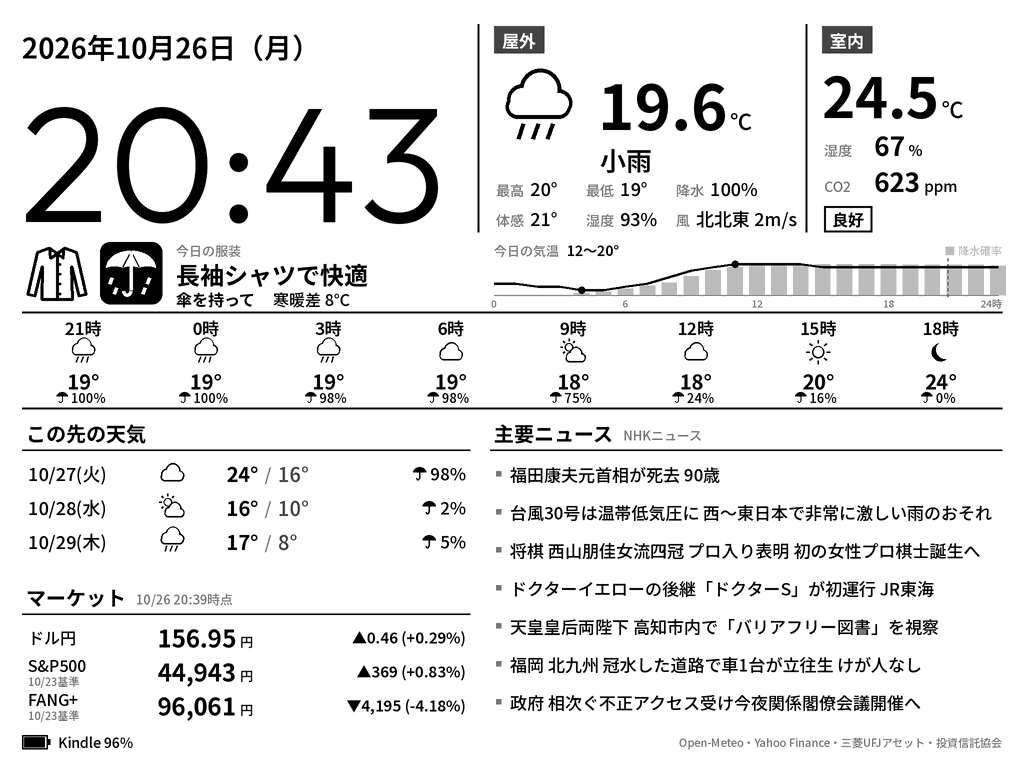
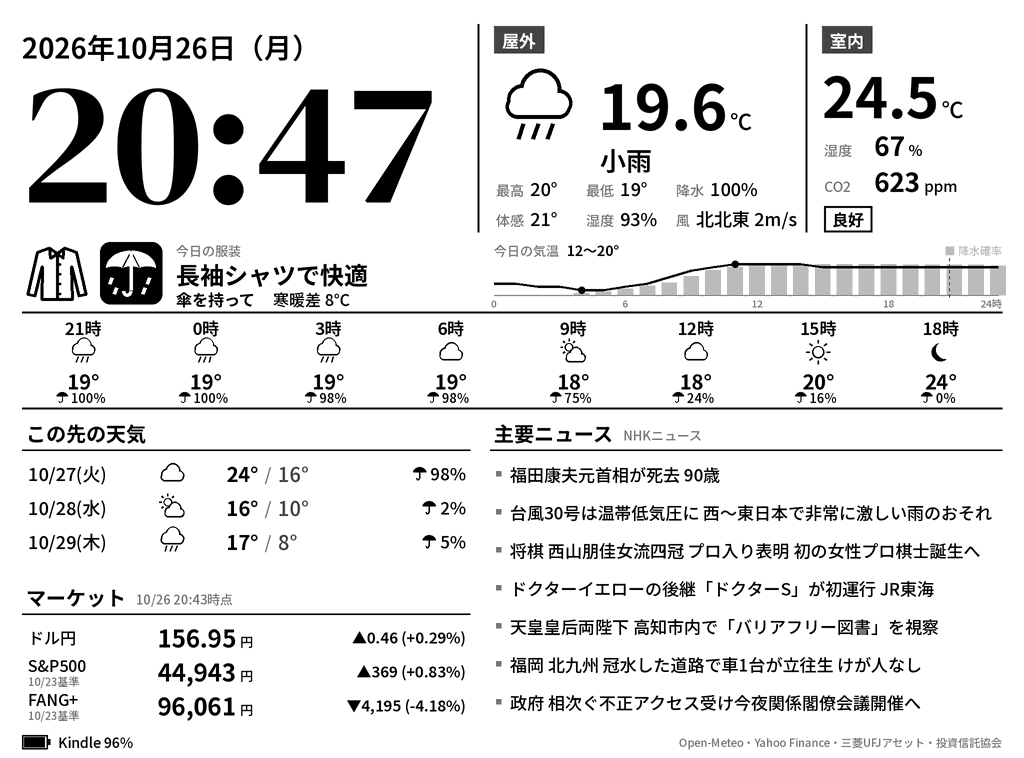
kindle_dashboard: DM Serif clock by default, add wide bold fonts
- Default clock font is DM Serif Display
- Add Horizon-like wide bold candidates (Zen Dots, Unbounded, Krona One,
  Orbitron, Archivo Expanded) and an axes option for variable fonts
- Vertically center the clock digits under the date

Claude-Session: https://claude.ai/code/session_01U5J8BxMP2MPkhSzA51AjtL

Changed region(s): [[0.0312, 0.1214, 0.4375, 0.3034]]

diff --git a/kindle_dashboard/server/dashboard/render.py b/kindle_dashboard/server/dashboard/render.py
@@ -50,7 +50,9 @@ class Fonts:
                  clock: dict | None = None):
         candidates = ([path] if path else []) + FONT_CANDIDATES
         base = base_dir or Path.cwd()
-        self._clock_path, self._clock_weight = None, (clock or {}).get("weight", "Regular")
+        self._clock_path = None
+        self._clock_weight = (clock or {}).get("weight", "Regular")
+        self._clock_axes = (clock or {}).get("axes")  # 例 {"Weight": 900, "Width": 125}
         if clock and clock.get("font"):
             p = Path(clock["font"])
             p = p if p.is_absolute() else base / "fonts" / p
@@ -84,9 +86,14 @@ class Fonts:
         if key not in self._cache:
             font = ImageFont.truetype(self._clock_path, size)
             try:
-                font.set_variation_by_name(self._clock_weight)
+                if self._clock_axes:
+                    axes = font.get_variation_axes()
+                    font.set_variation_by_axes(
+                        [self._clock_axes.get(a["name"].decode(), a["default"]) for a in axes])
+                else:
+                    font.set_variation_by_name(self._clock_weight)
             except (OSError, ValueError):
-                pass
+                pass  # 可変フォントでなければそのまま
             self._cache[key] = font
         return self._cache[key]
 
@@ -183,7 +190,11 @@ def draw_clock(c: Canvas, now: datetime):
     size = 176
     while size > 60 and c.fonts.clock(round(size * c.s)).getlength(hm) / c.s > 436:
         size -= 4
-    c.d.text(((M - 2) * c.s, 222 * c.s), hm, font=c.fonts.clock(round(size * c.s)), fill=BLACK, anchor="ls")
+    # 字形の上下の範囲で、日付の下（70〜224）の中央に置く（横長のフォントでも間延びしない）
+    font = c.fonts.clock(round(size * c.s))
+    _, top, _, bottom = font.getbbox(hm, anchor="ls")
+    baseline = (70 + 224) / 2 * c.s - (top + bottom) / 2
+    c.d.text(((M - 2) * c.s, baseline), hm, font=font, fill=BLACK, anchor="ls")
 
 
 def draw_outdoor(c: Canvas, w: Weather | None):

diff --git a/kindle_dashboard/server/tests/test_render_and_server.py b/kindle_dashboard/server/tests/test_render_and_server.py
@@ -161,4 +161,12 @@ def test_clock_font_falls_back_when_missing():
     fonts = Fonts(None, SERVER_DIR, {"font": "no-such-font.ttf", "weight": "Light"})
     assert fonts.clock(40).path == fonts.get(40, "Bold").path
     chosen = Fonts(None, SERVER_DIR, DEFAULT_CONFIG["clock"])
-    assert chosen.clock(40).path.endswith("Outfit-VF.ttf")
+    assert chosen.clock(40).path.endswith("DMSerifDisplay-Regular.ttf")
+
+
+def test_clock_font_axes():
+    fonts = Fonts(None, SERVER_DIR, {"font": "Archivo-VF.ttf", "axes": {"Weight": 900, "Width": 125}})
+    f = fonts.clock(40)
+    assert f.path.endswith("Archivo-VF.ttf")
+    narrow = Fonts(None, SERVER_DIR, {"font": "Archivo-VF.ttf", "axes": {"Weight": 900, "Width": 62}}).clock(40)
+    assert f.getlength("14:19") > narrow.getlength("14:19")

diff --git a/kindle_dashboard/server/fetch_fonts.py b/kindle_dashboard/server/fetch_fonts.py
@@ -23,6 +23,12 @@ FONTS = {
     "SpaceGrotesk-VF.ttf": "spacegrotesk/SpaceGrotesk%5Bwght%5D.ttf",
     "Urbanist-VF.ttf": "urbanist/Urbanist%5Bwght%5D.ttf",
     "Lexend-VF.ttf": "lexend/Lexend%5Bwght%5D.ttf",
+    # 横に広い太字（Horizon 風）
+    "ZenDots-Regular.ttf": "zendots/ZenDots-Regular.ttf",
+    "Unbounded-VF.ttf": "unbounded/Unbounded%5Bwght%5D.ttf",
+    "KronaOne-Regular.ttf": "kronaone/KronaOne-Regular.ttf",
+    "Orbitron-VF.ttf": "orbitron/Orbitron%5Bwght%5D.ttf",
+    "Archivo-VF.ttf": "archivo/Archivo%5Bwdth,wght%5D.ttf",
 }
 
 

diff --git a/kindle_dashboard/server/dashboard/app.py b/kindle_dashboard/server/dashboard/app.py
@@ -27,7 +27,7 @@ DEFAULT_CONFIG = {
     "display": {"width": 1024, "height": 758, "rotate": 90},
     "font_path": None,
     # 時計の数字のフォント（fonts/ 内のファイル名と太さ）。候補は README 参照
-    "clock": {"font": "Outfit-VF.ttf", "weight": "Light"},
+    "clock": {"font": "DMSerifDisplay-Regular.ttf"},
     "host": "0.0.0.0",
     "port": 8080,
     "refresh_minutes": {"weather": 10, "market": 5, "news": 15, "indoor": 5},

diff --git a/kindle_dashboard/README.md b/kindle_dashboard/README.md
@@ -92,21 +92,32 @@ python serve.py                  # 配信開始 → 表示された http://<IP>:
 
 ### 時計のフォント
 
-`config.json` に `"clock": {"font": "Outfit-VF.ttf", "weight": "Light"}` のように書く（既定は Outfit Light）。
-見本: [clock_candidates.png](../docs/kindle-dashboard/clock_candidates.png)
+`config.json` に `"clock": {"font": "ZenDots-Regular.ttf"}` のように書く（既定は DM Serif Display）。
+見本: [clock_candidates.png](../docs/kindle-dashboard/clock_candidates.png)、
+横長の太字（左から DM Serif / Zen Dots / Unbounded Black）: [clock_wide_candidates.png](../docs/kindle-dashboard/clock_wide_candidates.png)
 
 | 見本 | `font` | `weight` | 雰囲気 |
 |---|---|---|---|
-| A | `Outfit-VF.ttf` | `Light`（既定）/ `Regular` | 細めで現代的・丸みあり |
+| A | `Outfit-VF.ttf` | `Light` / `Regular` | 細めで現代的・丸みあり |
 | B | `Outfit-VF.ttf` | `Medium` | A を太くした版。遠くからも読みやすい |
 | C | `Montserrat-VF.ttf` | `Light` | 幾何学的で上品 |
 | D | `JosefinSans-VF.ttf` | `Light` | 細く背が低い・クラシック |
 | E | `BebasNeue-Regular.ttf` | （なし） | 縦長で力強い |
 | F | `Oswald-VF.ttf` | `Light` | 縦長・すっきり |
-| H | `DMSerifDisplay-Regular.ttf` | （なし） | セリフ体・雑誌風 |
+| H | `DMSerifDisplay-Regular.ttf` | （なし） | セリフ体・雑誌風（既定） |
 | I | `SpaceGrotesk-VF.ttf` | `Light` | 個性的な「1」 |
 | J | `Urbanist-VF.ttf` | `Thin` | とても細い（E-ink では薄く見えることあり） |
 | K | `Lexend-VF.ttf` | `ExtraLight` | 細めで読みやすい |
+| L | `ZenDots-Regular.ttf` | （なし） | 横長の太字・Horizon 風（0 に斜線） |
+| M | `Unbounded-VF.ttf` | `Black` / `Bold` | 横長の太字・Horizon 風 |
+| N | `KronaOne-Regular.ttf` | （なし） | 横長の太字 |
+| O | `Orbitron-VF.ttf` | `Black` | 横長・SF 風 |
+| P | `Archivo-VF.ttf` | `"axes": {"Weight": 900, "Width": 125}` | 横長の極太（幅も指定） |
+
+- 太さだけでなく幅なども変えられるフォントは `weight` の代わりに `"axes": {"Weight": 900, "Width": 125}` のように数値で指定できる。
+- 手持ちのフォント（例: Horizon）を使うときは、Docker なら `config` フォルダに置いて `"font": "/config/Horizon.otf"`
+  のように絶対パスで指定する（Google Fonts にない有料・個人配布フォントは同梱していない。ライセンスは各自で確認）。
+- 数字は日付の下の空間で上下中央に置くので、横長のフォントでも間延びしない。
 
 可変フォント（`-VF`）の `weight` は `Thin` `ExtraLight` `Light` `Regular` `Medium` `SemiBold` `Bold` などから選べる。
 
